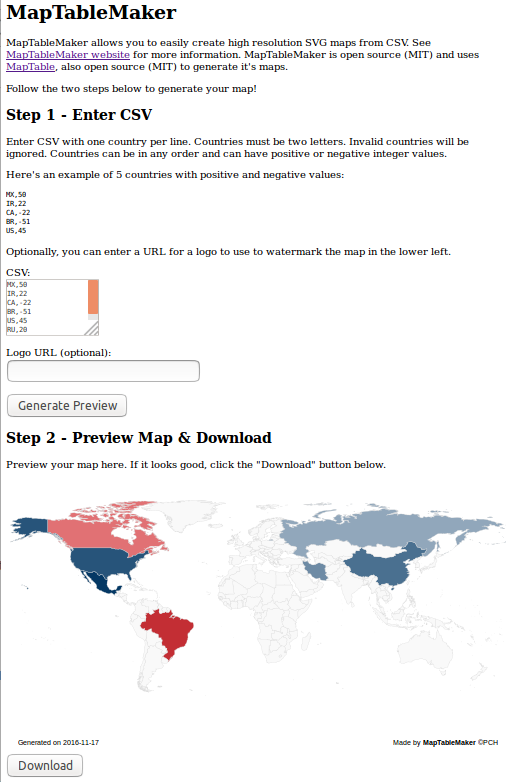
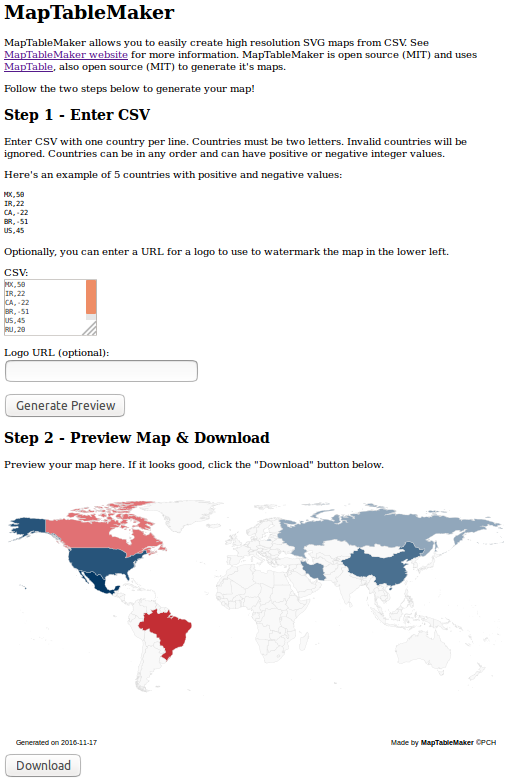
update docs, crop screenshot

diff --git a/README.md b/README.md
@@ -2,30 +2,33 @@
 
 ## About
 
-Easily make and download high resolution SVG maps from your CSV dataset
-
-MapTableMaker is a simple PHP web application which 
-allows you to easily create high resolution SVG maps from CSV.
+MapTableMaker is a PHP web application which allows you to  host your 
+own MapTableMaker server. This server can
+ easily make and let's you download high resolution SVG maps from your CSV dataset.
 MapTableMaker is open source (MIT) and
 uses <a href="https://github.com/Packet-Clearing-House/maptable">MapTable</a>, also open source (MIT)
 to generate it's maps.
 
-
-[![](./data/screenshot.png)](https://plip.com/MapTableMaker)
+* Here is a screen shot of the web application.  Click it to go to a 
+live demo: [![](./data/screenshot.png)](https://plip.com/MapTableMaker)
 
 ## Requirements
 
-A web server running PHP
+* A web server running PHP
+* A modern browser capable of running [d3.js](https://d3js.org/)
+* A CSV data set with two letter country codes and integers
+* A need for high resolution, print ready maps ;)
 
 ## Install
 
-1. Download latest to a web accessible directory
+1. Download MapTableMaker to a web accessible directory
+1. Uncompress the downloaded file
 1. Browser to URL
 1. Enter CSV values and submit form
 1. Download map
 1. Enjoy!
 
-## Licnese
+## License
 
 MIT
 
